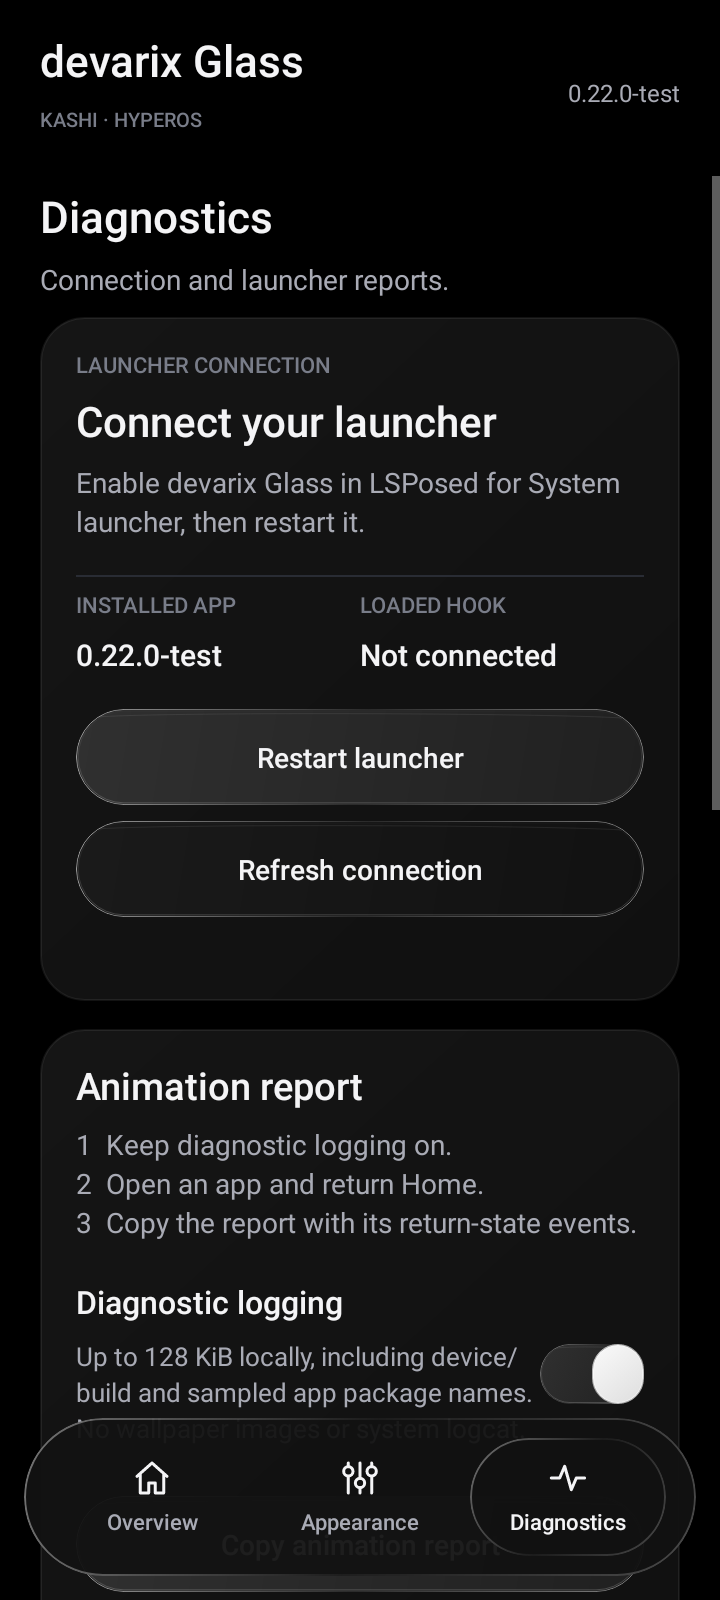
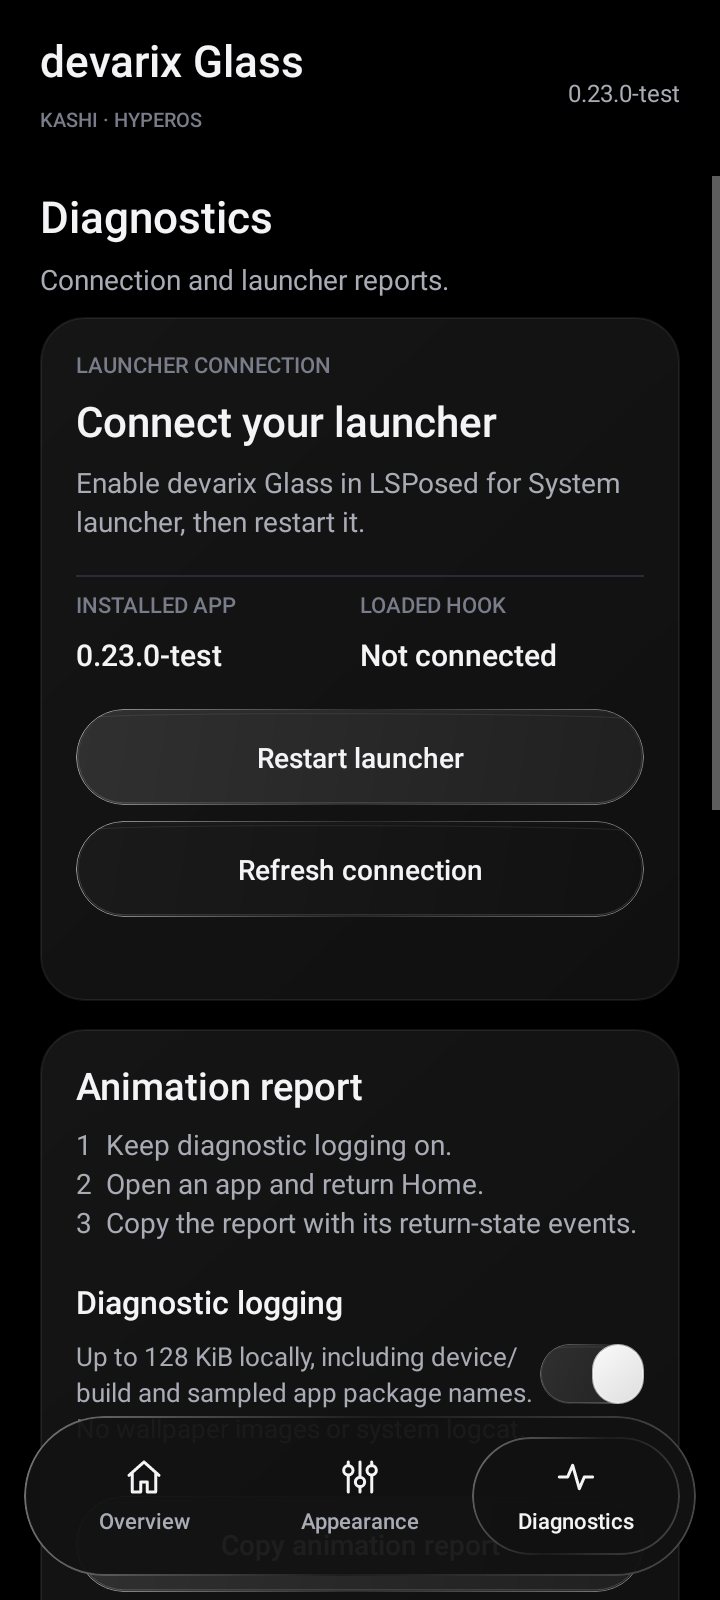
Keep glass in motion snapshots and add draggable spring navigation

diff --git a/launcher-addon/app/src/main/java/io/github/devarix/kashiglass/LiquidNavigationBar.java b/launcher-addon/app/src/main/java/io/github/devarix/kashiglass/LiquidNavigationBar.java
@@ -1,0 +1,61 @@
+package io.github.devarix.kashiglass;
+
+import android.animation.ValueAnimator;
+import android.content.Context;
+import android.view.*;
+import android.widget.*;
+import java.util.function.IntConsumer;
+
+/** View-based drag selection and damped spring, backed by the Kyant lens adapter. */
+final class LiquidNavigationBar extends FrameLayout {
+    private final LinearLayout tabs;private final View pill;private final IntConsumer selected;
+    private final int slop;private int index,pointer=-1;private float position,target,velocity,downX,downY,origin;
+    private boolean dragging,vertical,running;private long lastFrame;
+    LiquidNavigationBar(Context context,View scene,IntConsumer selected){
+        super(context);this.selected=selected;slop=ViewConfiguration.get(context).getScaledTouchSlop();
+        setPadding(dp(6),dp(6),dp(6),dp(6));setMinimumHeight(dp(80));setClipChildren(false);setClickable(true);setImportantForAccessibility(IMPORTANT_FOR_ACCESSIBILITY_NO);
+        setBackground(new KyantNavigationDrawable(this,scene));
+        pill=new View(context);pill.setImportantForAccessibility(IMPORTANT_FOR_ACCESSIBILITY_NO);pill.setBackground(new KyantNavigationDrawable(pill,scene));addView(pill,new FrameLayout.LayoutParams(0,0));
+        tabs=new LinearLayout(context);tabs.setOrientation(LinearLayout.HORIZONTAL);tabs.setGravity(Gravity.CENTER_VERTICAL);addView(tabs,new FrameLayout.LayoutParams(-1,-2,Gravity.CENTER_VERTICAL));
+    }
+    void addTab(Button button){final int value=tabs.getChildCount();tabs.addView(button,new LinearLayout.LayoutParams(0,-2,1));button.setOnClickListener(v->choose(value));}
+    void select(int value,boolean animate){index=Math.max(0,Math.min(tabs.getChildCount()-1,value));target=index;if(!animate||!isAttachedToWindow()||!ValueAnimator.areAnimatorsEnabled()){stop();position=target;velocity=0;place();}else spring();}
+    int selectedIndex(){return index;}float selectionPosition(){return position;}
+    void refreshBackdrop(){invalidate();pill.invalidate();}
+    private int dp(float v){return Math.round(v*getResources().getDisplayMetrics().density);}
+    private float cell(){return tabs.getChildCount()==0?0:(float)tabs.getWidth()/tabs.getChildCount();}
+    private void place(){float step=cell();if(step<=0)return;float physical=getLayoutDirection()==LAYOUT_DIRECTION_RTL?tabs.getChildCount()-1-position:position;int left=Math.round(tabs.getLeft()+physical*step+dp(2));pill.layout(left,tabs.getTop(),Math.round(left+step-dp(4)),tabs.getBottom());pill.invalidate();}
+    @Override protected void onLayout(boolean changed,int l,int t,int r,int b){super.onLayout(changed,l,t,r,b);place();}
+    private void choose(int value){int next=Math.max(0,Math.min(tabs.getChildCount()-1,value));boolean changed=next!=index;select(next,true);if(changed)selected.accept(next);}
+    private void press(boolean down){pill.animate().scaleX(down?1.06f:1f).scaleY(down?1.08f:1f).setDuration(ValueAnimator.areAnimatorsEnabled()?140:0).start();}
+    private void cancelDrag(){dragging=false;pointer=-1;vertical=false;press(false);target=index;spring();}
+    private void begin(android.view.MotionEvent event){pointer=event.getPointerId(0);downX=event.getX();downY=event.getY();origin=position;dragging=vertical=false;}
+    private void detectDrag(android.view.MotionEvent event){
+        if(vertical||dragging)return;int p=event.findPointerIndex(pointer);if(p<0){cancelDrag();return;}
+        float dx=event.getX(p)-downX,dy=event.getY(p)-downY;
+        if(Math.abs(dy)>slop&&Math.abs(dy)>Math.abs(dx)){vertical=true;return;}
+        if(Math.abs(dx)>slop&&Math.abs(dx)>Math.abs(dy)){dragging=true;stop();press(true);if(getParent()!=null)getParent().requestDisallowInterceptTouchEvent(true);}
+    }
+    @Override public boolean onInterceptTouchEvent(android.view.MotionEvent event){
+        int action=event.getActionMasked();if(action==android.view.MotionEvent.ACTION_DOWN)begin(event);
+        else if(action==android.view.MotionEvent.ACTION_MOVE){detectDrag(event);if(dragging)movePill(event);}
+        else if(action==android.view.MotionEvent.ACTION_CANCEL){cancelDrag();return false;}
+        return dragging;
+    }
+    @Override public boolean onTouchEvent(android.view.MotionEvent event){
+        int action=event.getActionMasked();if(action==android.view.MotionEvent.ACTION_DOWN){begin(event);return true;}if(action==android.view.MotionEvent.ACTION_MOVE)detectDrag(event);if(action==android.view.MotionEvent.ACTION_CANCEL){cancelDrag();return true;}
+        if(action==android.view.MotionEvent.ACTION_POINTER_UP&&event.getPointerId(event.getActionIndex())==pointer){cancelDrag();return true;}
+        if(!dragging){if(action==android.view.MotionEvent.ACTION_UP){pointer=-1;performClick();}return true;}
+        int p=event.findPointerIndex(pointer);if(p<0){cancelDrag();return true;}
+        if(action==android.view.MotionEvent.ACTION_MOVE){movePill(event);return true;}
+        if(action==android.view.MotionEvent.ACTION_UP){dragging=false;pointer=-1;press(false);choose(Math.round(position));return true;}
+        return true;
+    }
+    private void movePill(android.view.MotionEvent event){int p=event.findPointerIndex(pointer);float width=cell();if(p<0||width<=0)return;float next=origin+(event.getX(p)-downX)/width*(getLayoutDirection()==LAYOUT_DIRECTION_RTL?-1:1);position=Math.max(0,Math.min(tabs.getChildCount()-1,next));velocity=0;place();}
+    @Override public boolean performClick(){return super.performClick();}
+    private final Choreographer.FrameCallback frame=time->{tick(time);};
+    private void spring(){if(!isAttachedToWindow()||!ValueAnimator.areAnimatorsEnabled()){stop();position=target;velocity=0;place();return;}if(!running){running=true;lastFrame=0;Choreographer.getInstance().postFrameCallback(frame);}}
+    private void tick(long time){if(!running||!isAttachedToWindow()){stop();return;}float dt=lastFrame==0?1f/60:Math.max(1f/240,Math.min(1f/30,(time-lastFrame)/1_000_000_000f));lastFrame=time;velocity+=(-484*(position-target)-36*velocity)*dt;position+=velocity*dt;if(Math.abs(position-target)<.001f&&Math.abs(velocity)<.005f){position=target;velocity=0;running=false;}place();if(running)Choreographer.getInstance().postFrameCallback(frame);}
+    private void stop(){running=false;lastFrame=0;Choreographer.getInstance().removeFrameCallback(frame);}
+    @Override protected void onDetachedFromWindow(){stop();pill.animate().cancel();position=target;dragging=false;pointer=-1;super.onDetachedFromWindow();}
+}

diff --git a/verification/android-runtime/src/test/java/io/github/devarix/kashiglass/SwipeGlassRuntimeTest.java b/verification/android-runtime/src/test/java/io/github/devarix/kashiglass/SwipeGlassRuntimeTest.java
@@ -1,0 +1,28 @@
+package io.github.devarix.kashiglass;
+import android.app.Activity;
+import android.graphics.*;
+import android.view.*;
+import android.widget.*;
+import java.util.*;
+import org.junit.*;
+import org.junit.runner.RunWith;
+import org.robolectric.*;
+import org.robolectric.annotation.*;
+import static org.junit.Assert.*;
+@RunWith(RobolectricTestRunner.class)
+@Config(sdk={33,35},manifest=Config.NONE)
+@GraphicsMode(GraphicsMode.Mode.NATIVE)
+public class SwipeGlassRuntimeTest {
+    private org.robolectric.android.controller.ActivityController<Activity> host;private LiquidNavigationBar bar;private final List<Integer> chosen=new ArrayList<>();private long time;
+    @Before public void setup(){RuntimeEnvironment.getApplication().getApplicationInfo().flags|=android.content.pm.ApplicationInfo.FLAG_SUPPORTS_RTL;host=Robolectric.buildActivity(Activity.class).setup().visible();Activity activity=host.get();FrameLayout root=new FrameLayout(activity);View scene=new View(activity);root.addView(scene);bar=new LiquidNavigationBar(activity,scene,chosen::add);for(int i=0;i<3;i++){Button button=new Button(activity);button.setText("Tab "+i);bar.addTab(button);}root.addView(bar,new FrameLayout.LayoutParams(600,100));activity.setContentView(root);root.measure(View.MeasureSpec.makeMeasureSpec(600,View.MeasureSpec.EXACTLY),View.MeasureSpec.makeMeasureSpec(800,View.MeasureSpec.EXACTLY));root.layout(0,0,600,800);bar.select(0,false);}
+    @After public void cleanup(){host.pause().stop().destroy();}
+    private void event(int action,float x,float y){MotionEvent event=MotionEvent.obtain(0,time+=20,action,x,y,0);try{bar.dispatchTouchEvent(event);}finally{event.recycle();}}
+    @Test public void dragFollowsFingerAndCommitsOnlyOnRelease(){event(MotionEvent.ACTION_DOWN,70,50);event(MotionEvent.ACTION_MOVE,510,50);assertTrue("position="+bar.selectionPosition()+" bar="+bar.getWidth()+" tabs="+bar.getChildAt(1).getWidth(),bar.selectionPosition()>1.5f);assertTrue(chosen.isEmpty());event(MotionEvent.ACTION_UP,510,50);assertEquals(Arrays.asList(2),chosen);assertEquals(2,bar.selectedIndex());}
+    @Test public void cancelledDragKeepsCurrentTab(){event(MotionEvent.ACTION_DOWN,70,50);event(MotionEvent.ACTION_MOVE,510,50);event(MotionEvent.ACTION_CANCEL,510,50);assertTrue(chosen.isEmpty());assertEquals(0,bar.selectedIndex());Shadows.shadowOf(android.os.Looper.getMainLooper()).idleFor(1,java.util.concurrent.TimeUnit.SECONDS);assertEquals(0,bar.selectionPosition(),.01f);}
+    @Test public void verticalMovementDoesNotSelectATab(){event(MotionEvent.ACTION_DOWN,70,50);event(MotionEvent.ACTION_MOVE,75,250);event(MotionEvent.ACTION_UP,75,250);assertTrue(chosen.isEmpty());assertEquals(0,bar.selectedIndex());}
+    @Test public void rtlDragAndOvershootStayWithinValidTabs(){bar.setLayoutDirection(View.LAYOUT_DIRECTION_RTL);bar.requestLayout();bar.layout(0,0,600,100);assertEquals(View.LAYOUT_DIRECTION_RTL,bar.getLayoutDirection());event(MotionEvent.ACTION_DOWN,510,50);event(MotionEvent.ACTION_MOVE,-500,50);assertEquals(2,bar.selectionPosition(),.01f);event(MotionEvent.ACTION_UP,-500,50);assertEquals(Arrays.asList(2),chosen);}
+    @Test public void nativeButtonTapSelectsWithoutDragging(){View tabs=bar.getChildAt(1);assertTrue(((android.view.ViewGroup)tabs).getChildAt(1).performClick());assertEquals(Arrays.asList(1),chosen);assertEquals(1,bar.selectedIndex());}
+    @Test public void motionSnapshotHasGlassBodyAndTransparentCorners(){Bitmap glyph=Bitmap.createBitmap(192,192,Bitmap.Config.ARGB_8888);glyph.setPixel(96,96,Color.WHITE);Bitmap glass=TransitionGlassBody.add(glyph);assertTrue(Color.alpha(glass.getPixel(50,96))>=20);assertEquals(0,Color.alpha(glass.getPixel(0,0)));assertEquals(Color.WHITE,glass.getPixel(96,96));assertEquals(0,Color.alpha(glyph.getPixel(50,96)));}
+    @Test public void transitionBodyRemainsNeutralAndCanFadeNormally(){Bitmap glyph=Bitmap.createBitmap(192,192,Bitmap.Config.ARGB_8888),glass=TransitionGlassBody.add(glyph);int pixel=glass.getPixel(50,96);assertEquals(Color.red(pixel),Color.blue(pixel));assertEquals(Color.red(pixel),Color.green(pixel));android.graphics.drawable.Drawable drawable=new OwnedTransitionDrawable(null,glass);drawable.setAlpha(0);Bitmap output=Bitmap.createBitmap(192,192,Bitmap.Config.ARGB_8888);drawable.setBounds(0,0,192,192);drawable.draw(new Canvas(output));assertEquals(0,Color.alpha(output.getPixel(50,96)));}
+    @Test public void unavailableForegroundIsNotRendered(){assertNull(TransitionGlassBody.add(null));Bitmap bitmap=Bitmap.createBitmap(8,8,Bitmap.Config.ARGB_8888);bitmap.recycle();assertSame(bitmap,TransitionGlassBody.add(bitmap));}
+}

diff --git a/launcher-addon/app/src/main/java/io/github/devarix/kashiglass/SettingsActivity.java b/launcher-addon/app/src/main/java/io/github/devarix/kashiglass/SettingsActivity.java
@@ -17,6 +17,7 @@ public final class SettingsActivity extends Activity {
     private Button restartButton;
     private final Runnable restartExpiry=this::updateRestartUi;
     private final Button[] navigation=new Button[3];
+    private LiquidNavigationBar navigationBar;
     private final Handler main=new Handler(Looper.getMainLooper());
     private long checkStarted;
     private boolean checking;
@@ -30,12 +31,13 @@ public final class SettingsActivity extends Activity {
         LinearLayout root=ui.column();root.setBackgroundColor(ControllerUi.BG);FrameLayout frame=new FrameLayout(this);frame.setBackgroundColor(ControllerUi.BG);frame.setFitsSystemWindows(true);frame.addView(root,new FrameLayout.LayoutParams(-1,-1));
         LinearLayout header=ui.row();header.setPadding(dp(20),dp(18),dp(20),dp(12));LinearLayout brand=ui.column();ui.text(brand,"devarix Glass",22,ControllerUi.INK,true);ui.text(brand,"KASHI · HYPEROS",10,ControllerUi.DIM,true);header.addView(brand,new LinearLayout.LayoutParams(0,-2,1));TextView version=ui.label(BuildConfig.VERSION_NAME,12,ControllerUi.MUTED,false);header.addView(version);root.addView(header);
         scroll=new ScrollView(this);scroll.setClipToPadding(false);scroll.setFillViewport(true);body=ui.column();int margin=Math.max(20,(getResources().getConfiguration().screenWidthDp-620)/2);body.setPadding(dp(margin),dp(8),dp(margin),dp(124));scroll.addView(body,new ScrollView.LayoutParams(-1,-2));root.addView(scroll,new LinearLayout.LayoutParams(-1,0,1));
-        LinearLayout nav=ui.row();nav.setPadding(dp(12),dp(10),dp(12),dp(10));ui.navigationSurface(nav,root);scroll.setOnScrollChangeListener((v,x,y,oldX,oldY)->{nav.invalidate();for(Button tab:navigation)if(tab!=null)tab.invalidate();});String[] titles={"Overview","Appearance","Diagnostics"};for(int i=0;i<3;i++){final int tab=i;Button button=ui.button(titles[i],false);button.setTextSize(11);ui.navigationIcon(button,i);button.setTag("tab:"+i);button.setContentDescription(titles[i]);navigation[i]=button;LinearLayout.LayoutParams params=new LinearLayout.LayoutParams(0,-2,1);params.setMargins(dp(3),0,dp(3),0);nav.addView(button,params);button.setOnClickListener(v->renderTab(tab));}FrameLayout.LayoutParams navParams=new FrameLayout.LayoutParams(-1,-2,Gravity.BOTTOM);navParams.setMargins(dp(12),dp(4),dp(12),dp(12));frame.addView(nav,navParams);setContentView(frame);
+        LiquidNavigationBar nav=new LiquidNavigationBar(this,root,index->renderTab(index));navigationBar=nav;scroll.setOnScrollChangeListener((v,x,y,oldX,oldY)->nav.refreshBackdrop());String[] titles={"Overview","Appearance","Diagnostics"};for(int i=0;i<3;i++){Button button=ui.button(titles[i],false);button.setTextSize(11);ui.navigationIcon(button,i);button.setTag("tab:"+i);button.setContentDescription(titles[i]);navigation[i]=button;nav.addTab(button);}FrameLayout.LayoutParams navParams=new FrameLayout.LayoutParams(-1,-2,Gravity.BOTTOM);navParams.setMargins(dp(12),dp(4),dp(12),dp(12));frame.addView(nav,navParams);setContentView(frame);
         getContentResolver().registerContentObserver(android.net.Uri.parse("content://"+GlassConfig.AUTHORITY+"/status"),false,observer);renderTab(state==null?0:state.getInt("tab",0));
     }
     private void renderTab(int tab){
         selectedTab=Math.max(0,Math.min(2,tab));body.removeAllViews();status=restartResult=connectionTitle=connectionDetail=loadedVersion=null;restartButton=null;iconsSwitch=blurSwitch=null;
         for(int i=0;i<3;i++){navigation[i].setSelected(i==selectedTab);ui.navigation(navigation[i],i==selectedTab);}
+        navigationBar.select(selectedTab,navigationBar.isLaidOut());
         if(selectedTab==0)overview();else if(selectedTab==1)appearance();else diagnostics();updateStatus();scroll.scrollTo(0,0);
     }
     private void connectionCard(){

diff --git a/verification/android-runtime/src/test/java/io/github/devarix/kashiglass/ControllerRuntimeTest.java b/verification/android-runtime/src/test/java/io/github/devarix/kashiglass/ControllerRuntimeTest.java
@@ -22,7 +22,7 @@ public class ControllerRuntimeTest {
     private View tag(String value){return activity.getWindow().getDecorView().findViewWithTag(value);}
     private void tab(int i){assertTrue(tag("tab:"+i).performClick());layout(720,1600);}
     private void layout(int w,int h){View root=activity.getWindow().getDecorView();root.measure(View.MeasureSpec.makeMeasureSpec(w,View.MeasureSpec.EXACTLY),View.MeasureSpec.makeMeasureSpec(h,View.MeasureSpec.EXACTLY));root.layout(0,0,w,h);}
-    private void screenshot(String name) throws Exception {View root=activity.getWindow().getDecorView();Bitmap bitmap=Bitmap.createBitmap(720,1600,Bitmap.Config.ARGB_8888);root.draw(new Canvas(bitmap));File dir=new File(System.getProperty("glass.results"),"controller");dir.mkdirs();try(FileOutputStream out=new FileOutputStream(new File(dir,name+"-api-"+Build.VERSION.SDK_INT+".png"))){assertTrue(bitmap.compress(Bitmap.CompressFormat.PNG,100,out));}}
+    private void screenshot(String name) throws Exception {org.robolectric.Shadows.shadowOf(android.os.Looper.getMainLooper()).idleFor(700,java.util.concurrent.TimeUnit.MILLISECONDS);View root=activity.getWindow().getDecorView();Bitmap bitmap=Bitmap.createBitmap(720,1600,Bitmap.Config.ARGB_8888);root.draw(new Canvas(bitmap));File dir=new File(System.getProperty("glass.results"),"controller");dir.mkdirs();try(FileOutputStream out=new FileOutputStream(new File(dir,name+"-api-"+Build.VERSION.SDK_INT+".png"))){assertTrue(bitmap.compress(Bitmap.CompressFormat.PNG,100,out));}}
     @Test public void overviewSeparatesInstalledAndLoadedAndProducesNativeUiScreenshots() throws Exception {assertEquals("Not connected",((TextView)tag("connection:loaded")).getText().toString());screenshot("overview");tab(1);screenshot("appearance");tab(2);screenshot("diagnostics");}
     @Test public void appearanceControlsPersistWithoutResettingOtherPreferences(){tab(1);Switch widgets=(Switch)tag("control:widget_glass");assertTrue(widgets.isChecked());widgets.performClick();assertFalse(activity.getSharedPreferences(GlassConfig.PREFS,0).getBoolean("widget_glass",true));assertFalse(activity.getSharedPreferences(GlassConfig.PREFS,0).getBoolean("icons",false));assertTrue(((Switch)tag("control:screen_match")).isChecked());}
     @Test public void diagnosticsExposeSelectableStatusAndFocusedReportFlow(){tab(2);TextView status=(TextView)tag("diagnostics:status");assertTrue(status.isTextSelectable());assertTrue(status.getText().toString().contains("Loaded hook"));}

diff --git a/launcher-addon/app/src/main/java/io/github/devarix/kashiglass/ControllerUi.java b/launcher-addon/app/src/main/java/io/github/devarix/kashiglass/ControllerUi.java
@@ -12,7 +12,6 @@ import android.widget.*;
 final class ControllerUi {
     static final int INK=0xfff4f4f6,MUTED=0xffa9abb5,DIM=0xff797d89,BG=0xff000000;
     final Context context;
-    private java.lang.ref.WeakReference<View> navigationScene=new java.lang.ref.WeakReference<>(null);
     ControllerUi(Context context){this.context=context;}
     int dp(float value){return Math.round(value*context.getResources().getDisplayMetrics().density);}
     TextView label(String value,int size,int color,boolean bold){TextView t=new TextView(context);t.setText(value);t.setTextSize(size);t.setTextColor(color);t.setTypeface(Typeface.create(bold?"sans-serif-medium":"sans-serif",Typeface.NORMAL));t.setIncludeFontPadding(false);t.setLineSpacing(dp(3),1);return t;}
@@ -35,8 +34,7 @@ final class ControllerUi {
     private Drawable ripple(Drawable glass){return new RippleDrawable(ColorStateList.valueOf(0x20ffffff),glass,null);}
     Button button(String title,boolean primary){Button b=new Button(context);b.setText(title);b.setTextSize(14);b.setAllCaps(false);b.setTypeface(Typeface.create("sans-serif-medium",Typeface.NORMAL));b.setTextColor(INK);b.setMinHeight(dp(48));b.setMinimumHeight(dp(48));b.setPadding(dp(14),dp(10),dp(14),dp(10));b.setBackground(ripple(glass(b,GlassSurface.SEARCH,primary)));return b;}
     Button action(LinearLayout parent,String title,boolean primary){Button b=button(title,primary);LinearLayout.LayoutParams p=new LinearLayout.LayoutParams(-1,-2);p.topMargin=dp(8);parent.addView(b,p);return b;}
-    void navigation(Button button,boolean selected){button.setTextColor(selected?INK:MUTED);button.setAlpha(1);button.setBackground(ripple(selected&&navigationScene.get()!=null?new KyantNavigationDrawable(button,navigationScene.get()):new ColorDrawable(Color.TRANSPARENT)));}
-    void navigationSurface(LinearLayout navigation,View scene){navigationScene=new java.lang.ref.WeakReference<>(scene);navigation.setBackground(new KyantNavigationDrawable(navigation,scene));}
+    void navigation(Button button,boolean selected){button.setTextColor(selected?INK:MUTED);button.setAlpha(1);button.setBackground(ripple(new ColorDrawable(Color.TRANSPARENT)));}
     void navigationIcon(Button button,int index){button.setCompoundDrawablesWithIntrinsicBounds(null,new NavigationGlyph(index,dp(20)),null,null);button.setCompoundDrawablePadding(dp(4));}
     private Drawable switchPart(View owner,boolean thumb){
         StateListDrawable states=new StateListDrawable();

diff --git a/verification/android-runtime/scripts/report.py b/verification/android-runtime/scripts/report.py
@@ -9,7 +9,7 @@ cases=[]
 for file in reports:
  for case in ET.parse(file).getroot().findall('testcase'):
   cases.append({'class':case.get('classname'),'name':case.get('name'),'passed':case.find('failure') is None and case.find('error') is None and case.find('skipped') is None})
-assert len(cases)==229,(len(cases),cases)
+assert len(cases)==245,(len(cases),cases)
 assert all(c['passed'] for c in cases),cases
 production=root.parents[1]/'launcher-addon/app/src/main/java/io/github/devarix/kashiglass'
 release=json.loads((root/'fixtures/current-release-provenance.json').read_text())
@@ -38,7 +38,7 @@ assert len(result['native_canvas_outputs'])==2,'Missing native Canvas output'
 (root/'results').mkdir(exist_ok=True)
 (root/'results/SUMMARY.md').write_text('''# Phone-free Android runtime verification
 
-- **229 / 229 current-code tests passed** on Android APIs 33 and 35, including native graphics, widget restoration and provider protocol cases.
+- **245 / 245 current-code tests passed** on Android APIs 33 and 35, including native graphics, widget restoration and provider protocol cases.
 - **4 expected failures reproduced** in released 0.9.0 source: shared Frosted pixels and cloning after recycled native pixels, on both APIs.
 - Icon rendering methods are preserved; widget live-mode selection intentionally changes constructor/field source.
 - Full renderer source reference matches (widget constructor policy intentionally changed): **'''+str(result['visual_renderer_reference_match'])+'''**.

diff --git a/launcher-addon/app/src/main/java/io/github/devarix/kashiglass/TransitionGlassBody.java b/launcher-addon/app/src/main/java/io/github/devarix/kashiglass/TransitionGlassBody.java
@@ -1,0 +1,18 @@
+package io.github.devarix.kashiglass;
+import android.graphics.*;
+
+/** Motion snapshots cannot retain a compositor blur node. Keep a neutral glass body instead. */
+final class TransitionGlassBody {
+    private TransitionGlassBody(){}
+    static Bitmap add(Bitmap foreground){
+        if(foreground==null||foreground.isRecycled())return foreground;
+        Bitmap result=Bitmap.createBitmap(foreground.getWidth(),foreground.getHeight(),Bitmap.Config.ARGB_8888);
+        Canvas canvas=new Canvas(result);Paint paint=new Paint(Paint.ANTI_ALIAS_FLAG|Paint.FILTER_BITMAP_FLAG);
+        float w=result.getWidth(),h=result.getHeight(),small=Math.min(w,h),edge=small*.009f;
+        RectF body=new RectF(edge,edge,w-edge,h-edge);float radius=small*.27f;
+        paint.setShader(new LinearGradient(0,0,w,h,new int[]{0x58ffffff,0x24dadada,0x1c7c7c7c,0x42ffffff},new float[]{0,.30f,.72f,1},Shader.TileMode.CLAMP));canvas.drawRoundRect(body,radius,radius,paint);
+        int saved=canvas.save();Path clip=new Path();clip.addRoundRect(body,radius,radius,Path.Direction.CW);canvas.clipPath(clip);
+        paint.setShader(new LinearGradient(0,0,0,h*.5f,new int[]{0x32ffffff,0x00ffffff},null,Shader.TileMode.CLAMP));canvas.drawOval(-w*.2f,-h*.6f,w*1.2f,h*.32f,paint);canvas.restoreToCount(saved);
+        paint.setShader(null);canvas.drawBitmap(foreground,0,0,paint);return result;
+    }
+}

diff --git a/launcher-addon/app/src/main/java/io/github/devarix/kashiglass/GlassHook.java b/launcher-addon/app/src/main/java/io/github/devarix/kashiglass/GlassHook.java
@@ -324,6 +324,7 @@ public final class GlassHook implements IXposedHookLoadPackage {
         String key=assetKey(pkg);
         // No wallpaper/GPU readback or provider I/O on a transition's critical path.
         Bitmap ready="frosted".equals(style)&&!GlassConfig.automaticKey(pkg)?glyph:LiquidGlassDrawable.coldTransition(glyph);
+        if(screenMatch&&(!"frosted".equals(style)||GlassConfig.automaticKey(pkg))){Bitmap body=TransitionGlassBody.add(ready);if(body!=ready&&ready!=glyph)ready.recycle();ready=body;}
         TRANSITIONS.put(key,ready);debug(screenMatch?"ANIMATION_CACHE_REBUILT":"ANIMATION_STATIC_FALLBACK",key);return ready;
     }
     private static void rememberCurrent(View view,State state){

diff --git a/verification/android-runtime/README.md b/verification/android-runtime/README.md
@@ -15,7 +15,7 @@ The report is `verification/android-runtime/build/reports/tests/test/index.html`
 
 This verifies Android graphics code in a host-side Android test runtime. It does **not** boot the APK in HyperOS, load LSPosed into Kashi, execute Xiaomi's proprietary backdrop/compositor APIs, or establish that the on-device open/close gestures, source hiding and frame timing are correct. Those require a compatible HyperOS runtime, which is not present in this execution environment. No APK or existing release is changed by running this suite.
 
-The separate **Verify Android snapshot runtime** GitHub workflow runs this suite and an expected-failure negative control using the pinned 0.9.0 drawable source in `fixtures/`. Four expected failures (two bugs across two Android versions) must reproduce in the older implementation while the current 229 tests pass. This guards against a test suite that simply passes regardless of the fix. The workflow uploads XML/HTML reports, a structured coverage report and native-Canvas PNG output. It does not rebuild or replace the released APK.
+The separate **Verify Android snapshot runtime** GitHub workflow runs this suite and an expected-failure negative control using the pinned 0.9.0 drawable source in `fixtures/`. Four expected failures (two bugs across two Android versions) must reproduce in the older implementation while the current 245 tests pass. This guards against a test suite that simply passes regardless of the fix. The workflow uploads XML/HTML reports, a structured coverage report and native-Canvas PNG output. It does not rebuild or replace the released APK.
 
 Search tests additionally check routing to an attached decorative view, frame request deduplication, restoration, rejected calls, unattached views and a transparent search rim independent of icon mode. The Xiaomi firmware call boundary is recorded/rejected, not emulated; these tests do not verify actual native blur pixels.
 
@@ -40,3 +40,5 @@ Version 0.18 adds 24 cases across APIs 33/35 for Search-derived page geometry/re
 Version 0.19 adds 34 cases across API 33/35: twenty controller UI/state/preference/restart cases, six AwesomeClock/system-MAML ownership cases and eight native blur request/readback cases. Three native controller screenshots are rendered per API. Firmware compositor pixels and Kashi hook dispatch remain outside this runtime.
 
 Version 0.22 adds thirteen cases across API 33/35 for independent native setter inputs, preserved clear/alpha state, clock host background lifecycle, nonrecursive navigation source selection, and actual upstream Kyant AGSL compilation/uniforms. Controller screenshots use the software-canvas fallback. The real hardware render-effect chain, LSPosed dispatch and firmware animation pixels still need device confirmation.
+
+Version 0.23 adds sixteen cases across APIs 33/35 for real native navigation touch dispatch (drag/release/cancel, vertical rejection, RTL/clamping and accessible button taps) and transition-body pixel ownership, neutral fill, transparent corners, foreground retention and native fade-to-zero. The suite verifies production helpers in Android's host runtime; it does not execute full Kashi gestures.

diff --git a/launcher-addon/AUDIT.md b/launcher-addon/AUDIT.md
@@ -1,3 +1,11 @@
+# 0.23.0: swipe glass body and draggable navigation
+
+The screen-matched icon renderer depends on a compositor backdrop that cannot travel with native animation bitmap snapshots. Its cold snapshot contained a rim and symbol with an empty body. TransitionGlassBody now composites a neutral translucent body beneath that foreground for motion and native callback/model snapshots. Corners remain transparent, native alpha/fades remain intact, and no fixed wallpaper image is introduced. Live home icons, original LiquidGlassDrawable render methods, the QWEA0/Kyant shaders and icon PNGs are unchanged.
+
+LiquidNavigationBar implements drag-to-select with a damped spring, nearest-tab commit on release, cancellation, RTL, pointer-loss handling and reduced-motion support. It uses a single moving Kyant-backed pill behind native accessible buttons. Backdrop nodes refresh with drag and scroll; detach cancels frame callbacks. Page content changes only on release/tap. This adapts the upstream tab interaction approach to Android Views, without claiming to embed the Compose component.
+
+Sixteen new Android cases across API 33/35 cover drag/release/cancel, vertical gesture rejection, RTL/clamping, native button taps, nonempty motion-body pixels, transparent corners, preserved glyphs, neutral channels, fade-to-zero and unavailable artwork. Total: 245 runtime cases and 80 unit tests. Phone appearance and native swipe-home timing still need device confirmation; bitmaps cannot provide a live compositor blur while moving.
+
 # 0.22.0: real inherited restore gap, clock host backgrounds and Kyant adapter
 
 Static Kashi V7.5 inspection confirms `ShortcutIcon.lambda$new$5` invokes the no-argument model getter during delayed restore; ShortcutInfo declares only a contextual overload. Hooking its declared methods missed the inherited getter. InheritedMethods now resolves the actual Method. The native setter passes its input to mImageSetCallback after assigning fields; NativeIconInput replaces that input with independently owned glass pixels before callbacks, while raw originals are captured first for disable restoration. Native clears are retained. Source stop/reset refresh hooks supplement existing floating-layer callbacks.

diff --git a/launcher-addon/README.md b/launcher-addon/README.md
@@ -2,6 +2,13 @@
 
 Experimental LSPosed add-on for **Kashi HyperOS Launcher V7.5 on HyperOS 3**. Adds **Glass icons (devarix)** to the launcher's Icons settings, with two materials and 700 icon/activity mappings.
 
+## 0.23.0
+
+- Glass body remains visible in swipe-home snapshots.
+- Bottom navigation supports dragging and spring snapping.
+
+[Download APK and source](https://github.com/OlahDavidXdd/glass-ximi/releases/tag/kashi-glass-addon-v0.23.0-test). Reboot and refresh the loaded hook version. [Verification details](AUDIT.md).
+
 ## 0.22.0 — Kyant navigation, native restore inputs and clock backgrounds
 
 The floating controller navigation adapts [Kyant0/AndroidLiquidGlass](https://github.com/Kyant0/AndroidLiquidGlass), pinned at `65ab177e90e5c1d8c62e70cf7755841982da65f6`. Its rounded-rectangle refraction shader is extracted verbatim with its SDF expansion and bundled under Apache-2.0. A Java View/RenderNode adapter uses the demo's 8dp blur / 24dp lens approach; it is not the upstream Compose tab component. Navigation overlays a separate content subtree and samples that live subtree without capturing itself. Software/shader failure uses readable dark glass without claiming blur. Icon artwork and the launcher icon renderer remain unchanged.

diff --git a/README.md b/README.md
@@ -1,4 +1,4 @@
-**Latest launcher test:** [0.22.0 APK, source and screenshots](https://github.com/OlahDavidXdd/glass-ximi/releases/tag/kashi-glass-addon-v0.22.0-test) · Kyant refraction navigation, inherited model/native callback restore fixes and MAML Android clock-host background handling. Final phone behavior needs confirmation. [Build audit](launcher-addon/AUDIT.md) · [Signing/update limits](launcher-addon/SIGNING.md). Restart/reboot and refresh the loaded hook version.
+**Latest launcher test:** [0.23.0 APK, source and screenshots](https://github.com/OlahDavidXdd/glass-ximi/releases/tag/kashi-glass-addon-v0.23.0-test) · Glass motion snapshots and draggable, springing Kyant navigation. [Build audit](launcher-addon/AUDIT.md) · [Signing/update limits](launcher-addon/SIGNING.md). Restart/reboot and refresh the loaded hook version.
 
 **Phone-free verification:** [Android native-graphics test suite](verification/android-runtime) · [Run/results](https://github.com/OlahDavidXdd/glass-ximi/actions/workflows/verify-android-runtime.yml). Verifies snapshot pixel ownership, transparency and fades on API 33/35; HyperOS/LSPosed end-to-end animations remain outside this host runtime.
 
